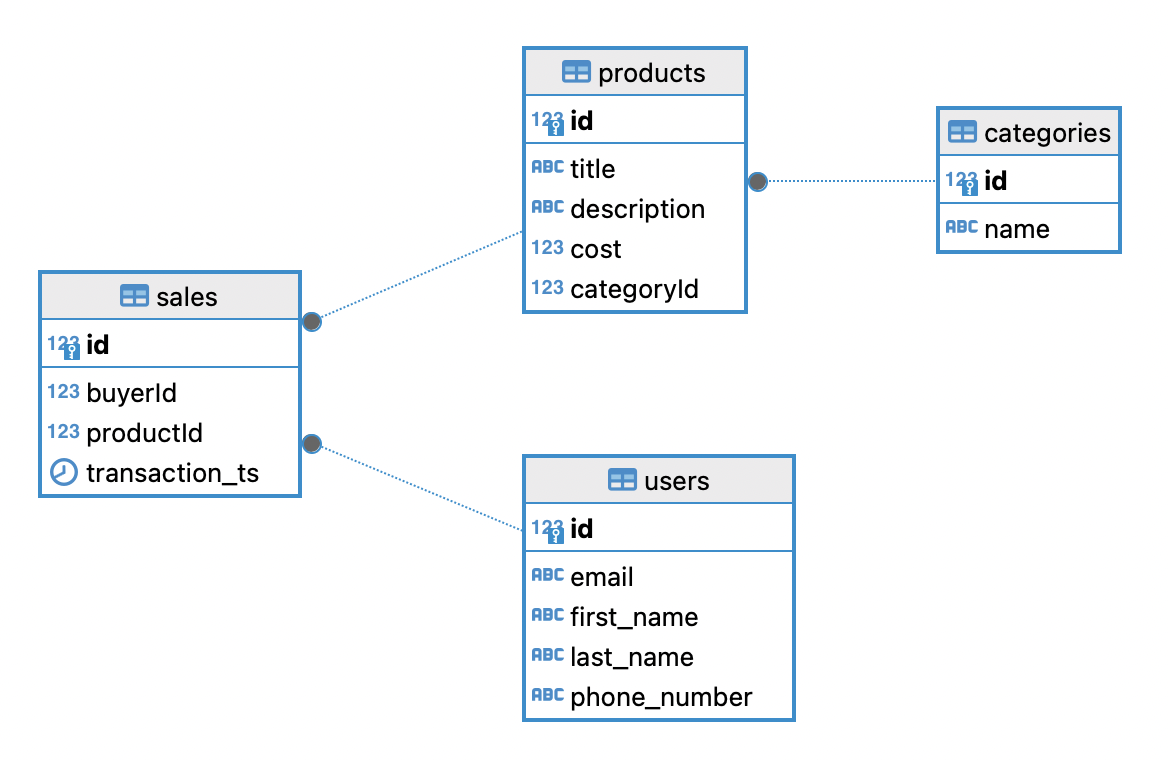
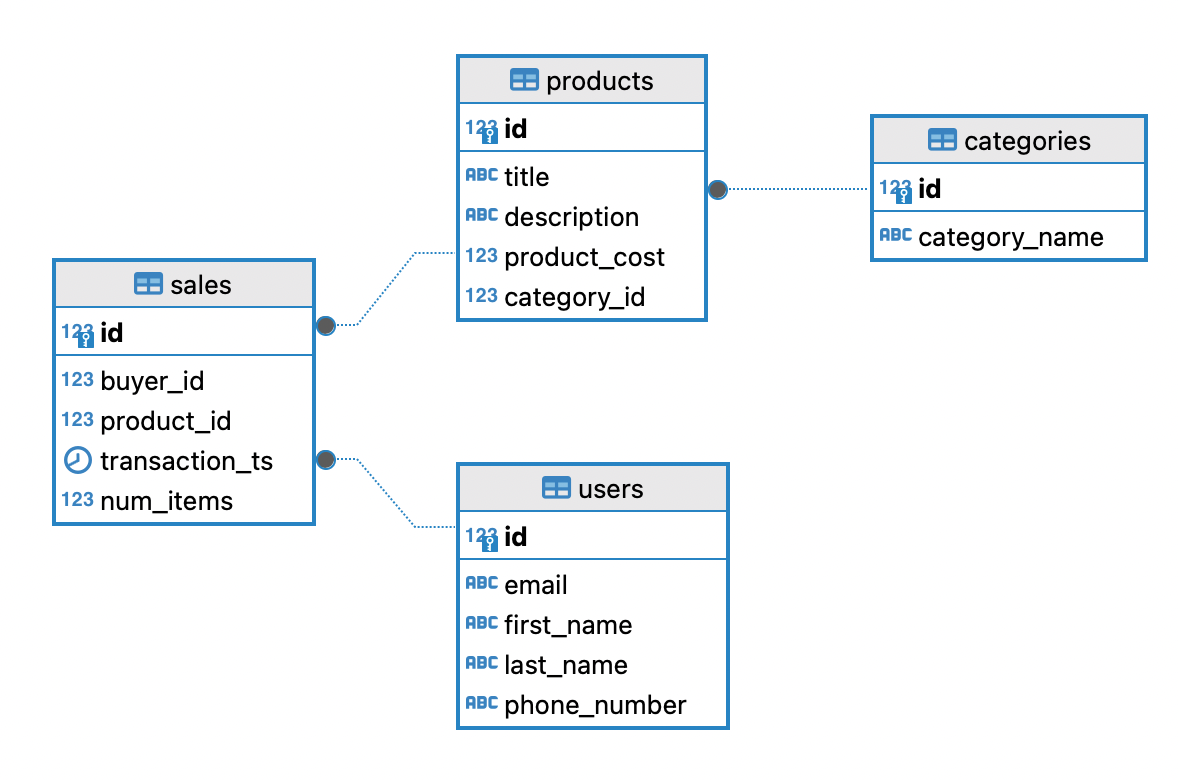
Updated data instructions

diff --git a/1-data/INSTRUCTIONS.md b/1-data/INSTRUCTIONS.md
@@ -4,10 +4,12 @@
 2. Write queries to find the following information from the database:
   
   a. What are the top three products by **number of items sold**? You
-   need to provide the product names and the sales numbers for each.
+   need to provide the product names and the sales numbers for each. (Some
+   transactions involve more than one item being sold...)
   
   b. What are the top three products by **monetary value**? You need
-   to provide the product names and the total value of sales for each.
+   to provide the product names and the total value of sales for each (where 
+   possible. What might cause a problem? Hint: check some records for December 2022.)
   
   c. Which user was the top spender in December 2022? Provide their
   email address and phone number.
@@ -16,9 +18,6 @@ Save your queries to the file `queries.sql`. Save your results in separate text 
 
 Commit your results and the completed queries, and push them to your GitHub repository.
 
-## Notes and hints
-The columns in this database are _very_ badly named. This might cause
-you problems.
 
 The ERD for this database is shown.
 
